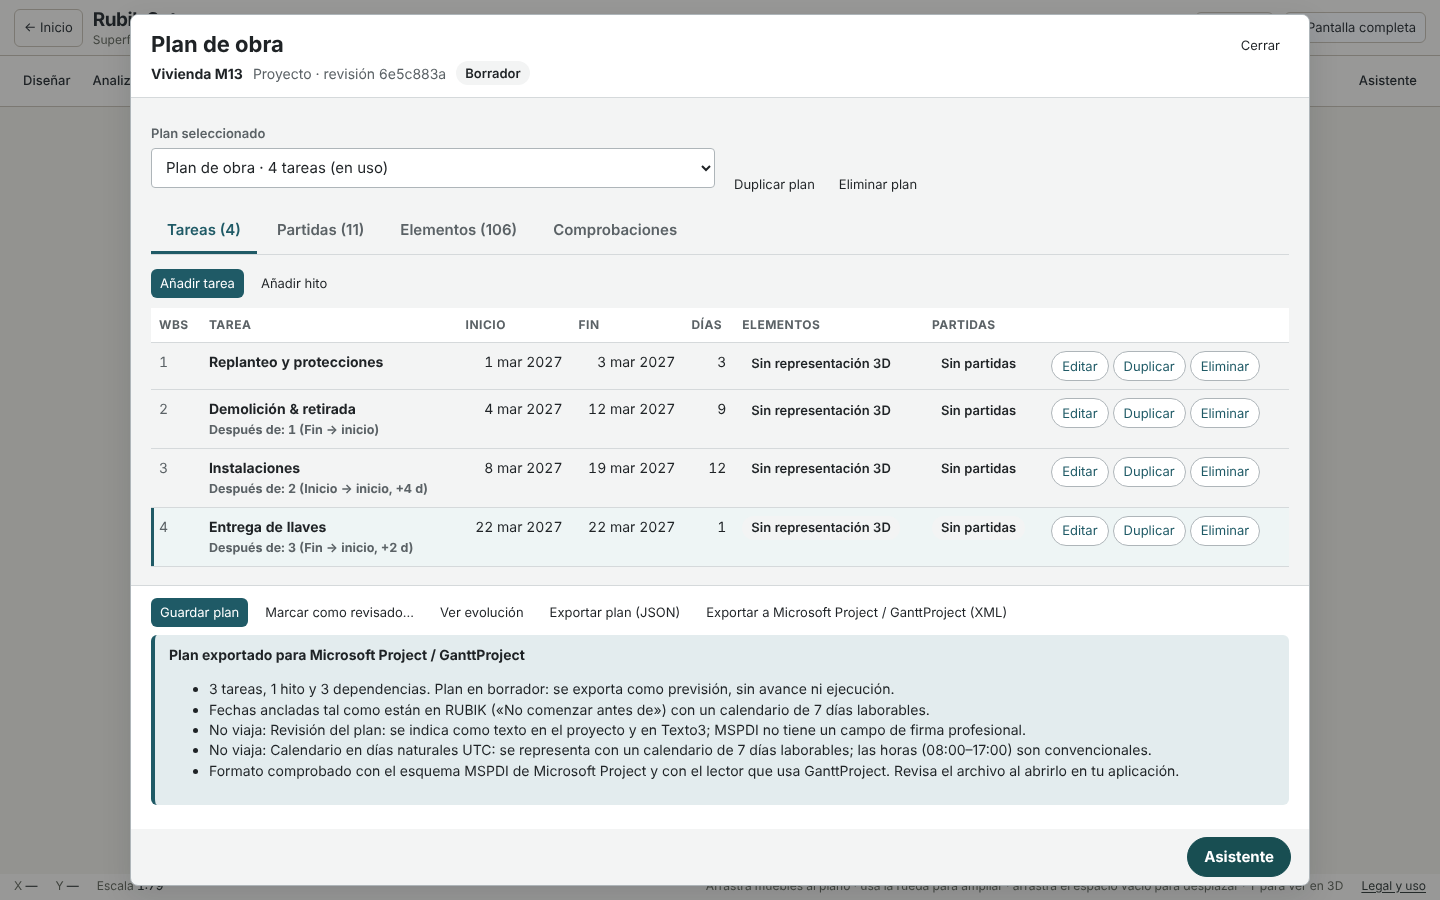
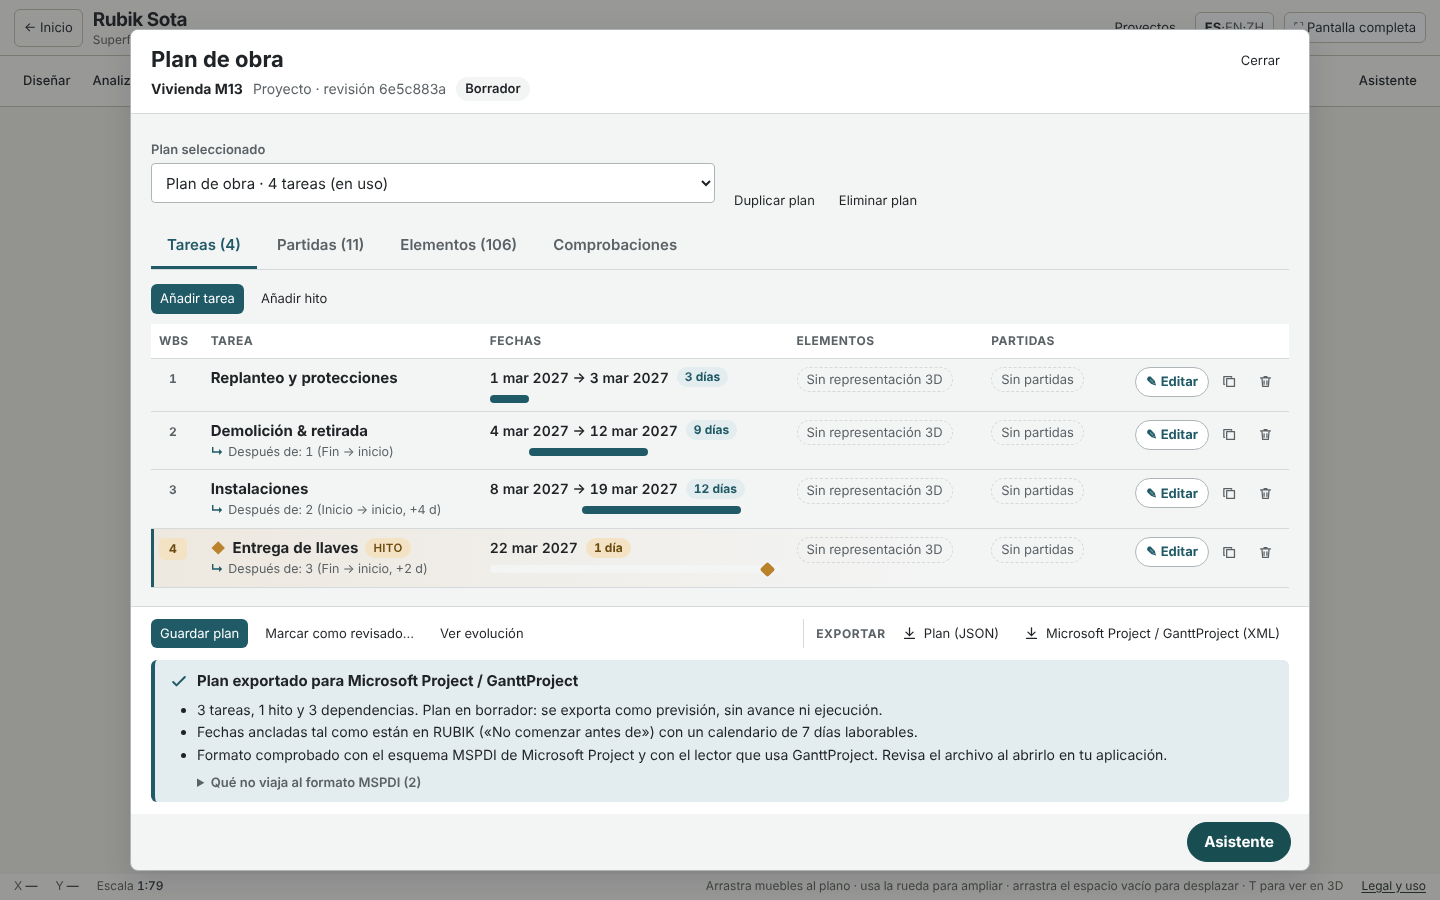
M13: jerarquía visual del plan de obra (Gantt por fila, hitos, duración, estados vacíos atenuados, acciones con iconos, grupo Exportar e informe estructurado)
Solo en el diálogo del plan (clases cx-*, tokens existentes); sin cambios en el sistema visual global.

Claude-Session: https://claude.ai/code/session_01QDzoLgCxdVTbtJTJCfqnTi

diff --git a/js/construction-plan-ui.js b/js/construction-plan-ui.js
@@ -10,6 +10,10 @@
  if(!app||!C||!R||!A||!S||!B)return;
  const el=(tag,text,parent,cls)=>{const n=document.createElement(tag);if(text!==undefined&&text!==null)n.textContent=text;if(cls)n.className=cls;parent?.append(n);return n;};
  const btn=(text,parent,cls='btn')=>{const b=el('button',text,parent,cls);b.type='button';return b;};
+ // Iconos lineales propios (SVG en línea, sin dependencias ni fuentes de iconos): heredan el color del botón.
+ const ICONS={copy:'M8 8h11v11H8zM5 16H4V5h11v1',trash:'M5 7h14M10 7V5h4v2M7 7l1 12h8l1-12M10 11v5M14 11v5',download:'M12 4v11M7 10l5 5 5-5M5 19h14',check:'M5 12l4 4 10-10'};
+ const icon=(name,parent)=>{const NS='http://www.w3.org/2000/svg',g=document.createElementNS(NS,'svg');g.setAttribute('viewBox','0 0 24 24');g.setAttribute('aria-hidden','true');g.setAttribute('class','cx-svg');
+  const p=document.createElementNS(NS,'path');p.setAttribute('d',ICONS[name]);g.append(p);parent?.prepend(g);return g;};
  const chip=(text,parent,tone='')=>el('span',text,parent,'cx-chip'+(tone?' '+tone:''));
  const pct=v=>v.toLocaleString('es-ES',{maximumFractionDigits:2})+' %';
  const DEP={FS:'Fin → inicio',SS:'Inicio → inicio',FF:'Fin → fin',SF:'Inicio → fin'};
@@ -117,13 +121,17 @@
    const sv=btn('Guardar plan',foot,'btn primary');sv.id='planSave';sv.disabled=!dirty&&plan.result==='match';sv.onclick=userEvent=>save({userEvent});
    const rv=btn(draft.review.status==='reviewed'&&!dirty?'Revisado':'Marcar como revisado…',foot);rv.id='planReview';rv.disabled=!draft.tasks.length;rv.onclick=()=>{review=!review;draw();};
    const ev=btn('Ver evolución',foot);ev.id='planEvolution';ev.disabled=!stored();ev.onclick=async()=>{if(dirty){error='Guarda el plan antes de ver su evolución.';draw();return;}dialog.close();await window.FloorPlanConstructionUI.openEvolution();};
-   const ex=btn('Exportar plan (JSON)',foot);ex.id='planExport';ex.disabled=!stored();ex.onclick=()=>download(new Blob([S.serialize(stored())],{type:'application/json'}),`plan-de-obra-${(snap.entry.name||'proyecto').replace(/[^\w]+/g,'-').toLowerCase()}.json`);
+   const xg=el('div',undefined,foot,'cx-export-group');xg.setAttribute('role','group');xg.setAttribute('aria-label','Exportar el plan guardado');el('span','Exportar',xg,'cx-export-label');
+   const ex=btn('Plan (JSON)',xg,'btn cx-export');icon('download',ex);ex.title='Exportar plan (JSON) · formato de RUBIK';ex.id='planExport';ex.disabled=!stored();ex.onclick=()=>download(new Blob([S.serialize(stored())],{type:'application/json'}),`plan-de-obra-${(snap.entry.name||'proyecto').replace(/[^\w]+/g,'-').toLowerCase()}.json`);
    // M13: el plan GUARDADO, tal cual, en MSPDI (Microsoft Project y GanttProject). No cambia el plan ni sus fechas.
-   const mx=btn('Exportar a Microsoft Project / GanttProject (XML)',foot);mx.id='planExportMspdi';mx.disabled=!stored()||!window.FloorPlanScheduleMSPDI;
+   const mx=btn('Microsoft Project / GanttProject (XML)',xg,'btn cx-export');icon('download',mx);mx.id='planExportMspdi';mx.disabled=!stored()||!window.FloorPlanScheduleMSPDI;
    mx.title='Archivo MSPDI (.xml): se abre en Microsoft Project y en GanttProject (Proyecto › Importar).';mx.onclick=exportMspdi;
   }
-  if(mspdiNote&&!closing){const f=el('div',undefined,foot,'cx-banner'+(mspdiNote.tone?' '+mspdiNote.tone:''));f.id='planMspdiReport';f.style.flexBasis='100%';el('b',mspdiNote.title,f);
-   const ul=el('ul',undefined,f);for(const line of mspdiNote.lines)el('li',line,ul);}
+  if(mspdiNote&&!closing){const f=el('div',undefined,foot,'cx-banner cx-report'+(mspdiNote.tone?' '+mspdiNote.tone:''));f.id='planMspdiReport';
+   const h=el('div',undefined,f,'cx-report-head');if(mspdiNote.tone!=='bad')icon('check',h);el('b',mspdiNote.title,h);
+   const main=mspdiNote.lines.filter(l=>!/^No viaja: /.test(l)),lost=mspdiNote.lines.filter(l=>/^No viaja: /.test(l)).map(l=>l.slice(10));
+   const ul=el('ul',undefined,f,'cx-report-main');for(const line of main)el('li',line,ul);
+   if(lost.length){const d=el('details',undefined,f,'cx-report-lost');el('summary',`Qué no viaja al formato MSPDI (${lost.length})`,d);const ul2=el('ul',undefined,d);for(const line of lost)el('li',line,ul2);}}
   if(review&&draft&&!closing){const f=el('div',undefined,foot,'cx-form');f.style.flexBasis='100%';el('h3','Declarar la revisión del plan',f);
    el('p','Indica quién ha revisado fechas, dependencias, elementos y repartos. Es una declaración, no una firma autenticada: si cambias el plan, la revisión queda desactualizada.',f,'cx-banner');
    const lab=el('label',undefined,f,'cx-field');el('span','Revisado por',lab);const who=el('input',undefined,lab);who.id='planReviewer';who.autocomplete='name';
@@ -194,25 +202,34 @@
   if(editing&&!editing.id)taskForm(body,null);
   if(!tasks().length){el('p','El plan no tiene tareas todavía.',body,'cx-empty');return;}
   const L=R.links(asStored()),wrap=el('div',undefined,body,'cx-scroll'),t=el('table',undefined,wrap,'cx-table');t.id='planTasks';
-  const hr=el('tr',undefined,el('thead',undefined,t));for(const x of ['WBS','Tarea','Inicio','Fin','Días','Elementos','Partidas',''])el('th',x,hr).scope='col';
+  t.classList.add('cx-tasks');
+  const hr=el('tr',undefined,el('thead',undefined,t));for(const x of ['WBS','Tarea','Fechas','Elementos','Partidas',''])el('th',x,hr).scope='col';
+  // Escala común del plan para el minidiagrama de Gantt de cada fila (las fechas son las del profesional, no se calculan).
+  const all=tasks(),t0=Math.min(...all.map(x=>Date.parse(x.startDate))),t1=Math.max(...all.map(x=>Date.parse(x.endDate)))+86400000,span=Math.max(86400000,t1-t0);
   const tb=el('tbody',undefined,t),lines=money.report?new Map(money.report.byTask.map(x=>[x.taskId,x])):null;
   for(const tk of [...tasks()].sort((a,b)=>a.startDate.localeCompare(b.startDate)||a.wbs.localeCompare(b.wbs,'es',{numeric:true}))){
    const tr=el('tr',undefined,tb);tr.dataset.task=tk.id;if(focus.taskId===tk.id)tr.classList.add('is-focus');
-   el('td',tk.wbs,tr,'wbs');const th=el('th',undefined,tr);th.scope='row';el('span',(tk.startDate===tk.endDate&&/^◆/.test(tk.title)?'':'')+tk.title,th);
-   if(tk.dependsOn.length)el('small','Después de: '+tk.dependsOn.map(d=>`${task(d.taskId)?.wbs||d.taskId} (${DEP[d.type]}${d.lagDays?`, ${d.lagDays>0?'+':''}${d.lagDays} d`:''})`).join(' · '),th);
-   el('td',day(tk.startDate),tr,'num');el('td',day(tk.endDate),tr,'num');el('td',String(days(tk.startDate,tk.endDate)),tr,'num');
+   // Hito con el mismo criterio que el resto de RUBIK: un solo día y sin elementos ni partidas.
+   const isMs=tk.startDate===tk.endDate&&!tk.elements.length&&!tk.budgetAllocations.length;if(isMs)tr.classList.add('cx-ms');
+   el('td',undefined,tr,'wbs').append(el('span',tk.wbs,undefined,'cx-wbs'));const th=el('th',undefined,tr);th.scope='row';
+   const name=el('span',undefined,th,'cx-task-name');if(isMs){const g=el('span','◆',name,'cx-ms-glyph');g.setAttribute('aria-hidden','true');}el('span',tk.title,name);if(isMs)el('span','Hito',name,'cx-chip cx-chip-ms');
+   if(tk.dependsOn.length){const d=el('small',undefined,th,'cx-deps');const i=el('span','↳',d,'cx-ico');i.setAttribute('aria-hidden','true');el('span','Después de: '+tk.dependsOn.map(d=>`${task(d.taskId)?.wbs||d.taskId} (${DEP[d.type]}${d.lagDays?`, ${d.lagDays>0?'+':''}${d.lagDays} d`:''})`).join(' · '),d);}
+   const dc=el('td',undefined,tr,'cx-dates'),n=days(tk.startDate,tk.endDate);
+   const line=el('div',undefined,dc,'cx-date-line');el('span',isMs?day(tk.startDate):`${day(tk.startDate)} → ${day(tk.endDate)}`,line,'num');el('span',isMs?'1 día':`${n} ${n===1?'día':'días'}`,line,'cx-dur');
+   const track=el('div',undefined,dc,'cx-gantt');track.setAttribute('aria-hidden','true');const bar=el('span',undefined,track,isMs?'cx-gantt-ms':'cx-gantt-bar');
+   const a=(Date.parse(tk.startDate)-t0)/span,w=(Date.parse(tk.endDate)+86400000-Date.parse(tk.startDate))/span;bar.style.left=(a*100).toFixed(2)+'%';if(!isMs)bar.style.width=Math.max(1.5,w*100).toFixed(2)+'%';
    const ec=el('td',undefined,tr),eb=el('div',undefined,ec,'cx-links');
-   if(!tk.elements.length)el('span','Sin representación 3D',eb,'cx-chip');
+   if(!tk.elements.length)el('span','Sin representación 3D',eb,'cx-chip cx-none');
    for(const e of tk.elements.slice(0,3)){const x=byKey.get(e.elementId),b=btn(x?C.elementLabel(x,inv.levels):e.elementId.startsWith(A.ILLUSTRATIVE_PREFIX)?(A.ILLUSTRATIVE[e.elementId.slice(A.ILLUSTRATIVE_PREFIX.length)]?.label||'Medio de obra')+' (ilustración)':'Elemento que ya no existe',eb,'cx-link');b.dataset.element=e.elementId;b.title=C.ROLE[e.role];b.onclick=()=>{tab='elements';focus={elementKey:e.elementId};draw();dialog.querySelector('.is-focus')?.scrollIntoView({block:'center'});};}
    if(tk.elements.length>3)el('span',`+${tk.elements.length-3}`,eb,'cx-chip');
    const ic=el('td',undefined,tr),ib=el('div',undefined,ic,'cx-links'),tl=lines?.get(tk.id);
-   if(!tk.budgetAllocations.length)el('span','Sin partidas',ib,'cx-chip');
+   if(!tk.budgetAllocations.length)el('span','Sin partidas',ib,'cx-chip cx-none');
    for(const a of tk.budgetAllocations){const it=money.budget?.items.find(i=>i.id===a.itemId),line=tl?.lines.find(l=>l.itemId===a.itemId);
     const b=btn(`${it?it.description:'Partida que ya no existe'} · ${pct(a.sharePercent)}${line?' · '+(line.allocatedNet===null?'importe desconocido':eur(line.allocatedNet)):''}`,ib,'cx-link');b.dataset.item=a.itemId;b.onclick=()=>{tab='items';focus={itemId:a.itemId};draw();dialog.querySelector('.is-focus')?.scrollIntoView({block:'center'});};}
-   const ac=el('td',undefined,tr),ab=el('div',undefined,ac,'cx-links');
-   const ed=btn('Editar',ab,'cx-link');ed.dataset.edit=tk.id;ed.onclick=()=>{editing={id:tk.id};draw();dialog.querySelector('#taskTitle')?.focus();};
-   const du=btn('Duplicar',ab,'cx-link');du.dataset.dup=tk.id;du.onclick=()=>{const id=R.newId('tsk'),prevFocus=focus;focus={taskId:id};const ok=change(d=>{d.tasks.push({...structuredClone(tk),id,title:tk.title+' (copia)',dependsOn:[],elements:[],budgetAllocations:[]});},'Copia creada sin elementos ni partidas: no pueden repetirse con el mismo papel ni superar el 100 %.');if(!ok)focus=prevFocus;else dialog.querySelector('.is-focus')?.scrollIntoView({block:'center'});};
-   const rm=btn('Eliminar',ab,'cx-link');rm.dataset.remove=tk.id;rm.onclick=()=>{const deps=tasks().filter(o=>o.dependsOn.some(d=>d.taskId===tk.id));if(deps.length){error=`«${deps.map(o=>o.title).join('», «')}» depende de esta tarea: quita antes esa dependencia.`;draw();return;}change(d=>{d.tasks=d.tasks.filter(o=>o.id!==tk.id);},'Tarea eliminada. Sus partidas quedan sin asignar.');};
+   const ac=el('td',undefined,tr,'cx-actions'),ab=el('div',undefined,ac,'cx-links');
+   const ed=btn('✎ Editar',ab,'cx-link cx-edit');ed.setAttribute('aria-label','Editar «'+tk.title+'»');ed.dataset.edit=tk.id;ed.onclick=()=>{editing={id:tk.id};draw();dialog.querySelector('#taskTitle')?.focus();};
+   const du=btn('',ab,'cx-link cx-icon');icon('copy',du);du.title='Duplicar';du.setAttribute('aria-label','Duplicar «'+tk.title+'»');du.dataset.dup=tk.id;du.onclick=()=>{const id=R.newId('tsk'),prevFocus=focus;focus={taskId:id};const ok=change(d=>{d.tasks.push({...structuredClone(tk),id,title:tk.title+' (copia)',dependsOn:[],elements:[],budgetAllocations:[]});},'Copia creada sin elementos ni partidas: no pueden repetirse con el mismo papel ni superar el 100 %.');if(!ok)focus=prevFocus;else dialog.querySelector('.is-focus')?.scrollIntoView({block:'center'});};
+   const rm=btn('',ab,'cx-link cx-icon cx-danger');icon('trash',rm);rm.title='Eliminar';rm.setAttribute('aria-label','Eliminar «'+tk.title+'»');rm.dataset.remove=tk.id;rm.onclick=()=>{const deps=tasks().filter(o=>o.dependsOn.some(d=>d.taskId===tk.id));if(deps.length){error=`«${deps.map(o=>o.title).join('», «')}» depende de esta tarea: quita antes esa dependencia.`;draw();return;}change(d=>{d.tasks=d.tasks.filter(o=>o.id!==tk.id);},'Tarea eliminada. Sus partidas quedan sin asignar.');};
    if(editing?.id===tk.id){const fr=el('tr',undefined,tb),fd=el('td',undefined,fr);fd.colSpan=8;taskForm(fd,tk);}
   }
  }

diff --git a/css/construction.css b/css/construction.css
@@ -136,3 +136,41 @@
 /* M2-UX-MOB-01 (confirmed by the integration CI on Ubuntu fonts): on phones the footer message takes its own full row
    instead of sharing it with the buttons (flex-basis 0 let it shrink to a narrow column of 4+ lines). */
 @media(max-width:600px){.cx-foot .cx-grow{flex:1 1 100%}}
+
+/* M13 · Jerarquía visual de las tareas del plan (solo este diálogo; tokens existentes del proyecto). */
+.cx-tasks th[scope=row]{font-weight:400}
+.cx-task-name{display:inline-flex;align-items:center;gap:7px;flex-wrap:wrap;font-size:15px;font-weight:650;color:var(--ink,#2b3034);line-height:1.3}
+.cx-wbs{display:inline-flex;align-items:center;justify-content:center;min-width:28px;height:22px;padding:0 6px;border-radius:5px;background:var(--surface-sunken,#efe9de);font-size:12px;font-weight:700;color:var(--ink-muted,#5b5f62)}
+.cx-deps{display:flex!important;gap:5px;align-items:baseline}
+.cx-deps .cx-ico{color:var(--action,#1f5a66);font-weight:700}
+.cx-tasks tr.cx-ms{background:linear-gradient(90deg,rgba(185,130,43,.10),transparent 70%)}
+.cx-tasks tr.cx-ms .cx-wbs{background:#f3e3c4;color:#6d4a10}
+.cx-ms-glyph{color:#b9822b;font-size:14px}
+.cx-chip.cx-chip-ms{min-height:20px;padding:0 8px;font-size:11.5px;letter-spacing:.03em;text-transform:uppercase;background:#f3e3c4;color:#6d4a10}
+.cx-dates{min-width:190px}
+.cx-date-line{display:flex;align-items:center;gap:8px;white-space:nowrap}
+.cx-date-line .num{font-weight:600;color:var(--ink,#2b3034)}
+.cx-dur{display:inline-flex;align-items:center;min-height:20px;padding:0 8px;border-radius:999px;font-size:12px;font-weight:700;background:var(--action-soft,#dceaea);color:var(--action,#1f5a66);font-variant-numeric:tabular-nums}
+tr.cx-ms .cx-dur{background:#f3e3c4;color:#6d4a10}
+.cx-gantt{position:relative;height:8px;margin-top:7px;border-radius:4px;background:var(--surface-sunken,#efe9de)}
+.cx-gantt-bar{position:absolute;top:0;bottom:0;border-radius:4px;background:var(--action,#1f5a66)}
+.cx-gantt-ms{position:absolute;top:50%;width:11px;height:11px;margin:-5.5px 0 0 -5.5px;background:#b9822b;transform:rotate(45deg);border-radius:2px;box-shadow:0 0 0 2px var(--paper,#fffcf6)}
+.cx-chip.cx-none{font-weight:400;background:none;border:1px dashed var(--line,#e2dbcf);color:var(--ink-muted,#5b5f62)}
+.cx-actions .cx-links{flex-wrap:nowrap;gap:4px;justify-content:flex-end}
+.cx-link.cx-edit{font-weight:650}
+.cx-link.cx-icon{display:inline-flex;align-items:center;justify-content:center;width:32px;min-width:32px;padding:0;border-color:transparent;background:none;color:var(--ink-muted,#5b5f62)}
+.cx-link.cx-icon:hover{background:var(--surface-sunken,#efe9de);color:var(--ink,#2b3034)}
+.cx-link.cx-danger:hover{background:var(--danger-soft,#f6dcd8);color:#8a2a1f}
+.cx-svg{width:17px;height:17px;flex:none;fill:none;stroke:currentColor;stroke-width:1.8;stroke-linecap:round;stroke-linejoin:round}
+.cx-export-group{display:inline-flex;align-items:center;gap:6px;margin-left:auto;padding-left:12px;border-left:1px solid var(--line,#e2dbcf)}
+.cx-export-label{font-size:12px;font-weight:700;letter-spacing:.05em;text-transform:uppercase;color:var(--ink-muted,#5b5f62)}
+.cx-export{display:inline-flex;align-items:center;gap:6px}
+.cx-report{flex-basis:100%;margin:4px 0 0}
+.cx-report-head{display:flex;align-items:center;gap:8px;font-size:15px}
+.cx-report-head .cx-svg{width:20px;height:20px;color:var(--action,#1f5a66);stroke-width:2.4}
+.cx-report-main{margin:6px 0 0;padding-left:28px}
+.cx-report-main li{margin:2px 0}
+.cx-report-lost{margin:8px 0 0 28px;font-size:13px;color:var(--ink-muted,#5b5f62)}
+.cx-report-lost summary{cursor:pointer;font-weight:600}
+.cx-report-lost ul{margin:4px 0 0;padding-left:18px}
+@media (max-width:700px){.cx-export-group{margin-left:0;padding-left:0;border-left:0;flex-wrap:wrap}.cx-dates{min-width:150px}}
